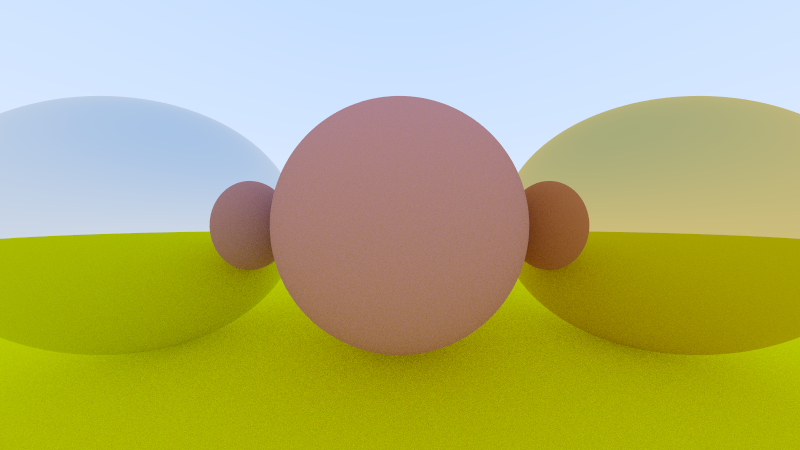
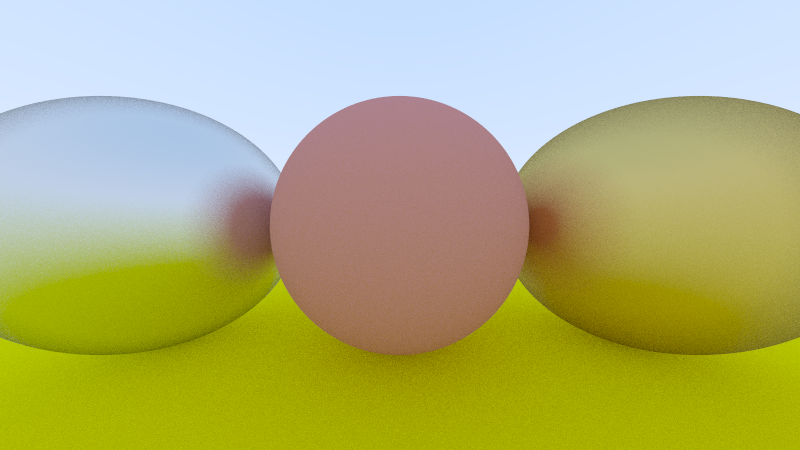
Add pertubation to the metal material

diff --git a/src/materials/reflective.rs b/src/materials/reflective.rs
@@ -1,19 +1,40 @@
 use super::Material;
 use crate::image::Pixel;
 use crate::surfaces::Intersection;
-use crate::types::Ray;
+use crate::types::{Ray, Vect3};
+use rand::{thread_rng, Rng};
+use rand_distr::Uniform;
+use std::f32::consts::PI;
+
+/// Pick a random point on a disk orthogonal to `normal`.
+///
+/// See <https://mathworld.wolfram.com/DiskPointPicking.html>.
+fn rand_point_on_disk(normal: &Vect3, radius: f32) -> Vect3 {
+    let mut rng = thread_rng();
+    let r: f32 = rng.sample(Uniform::new_inclusive(0.0, radius));
+    let phi: f32 = rng.sample(Uniform::new(0.0, 2.0 * PI));
+    let horiz = Vect3 {
+        x: 1.0,
+        ..Vect3::zero()
+    };
+    let x = (horiz - normal.project(horiz)).normalize();
+    let y = normal.cross(x);
+    (x * r.sqrt() * phi.cos()) + (y * r.sqrt() * phi.sin())
+}
 
 /// A reflective metal-like material.
 #[derive(Debug, Clone, Copy)]
 pub struct Metal {
     attenuation: Pixel,
+    pertubation: f32,
 }
 
 impl Metal {
     /// Construct a metal material with a given attenuation.
-    pub fn new(r: f32, g: f32, b: f32) -> Metal {
+    pub fn new(r: f32, g: f32, b: f32, fuzziness: f32) -> Metal {
         Metal {
             attenuation: Pixel { r, g, b },
+            pertubation: fuzziness,
         }
     }
 }
@@ -23,6 +44,11 @@ impl Material for Metal {
         let normal = intersection.normal();
         let incident = ray.direction();
         let reflection = incident - 2.0 * incident.dot(normal) * normal;
-        vec![(Ray::new(intersection.point(), reflection), self.attenuation)]
+        let direction = reflection + rand_point_on_disk(&reflection, self.pertubation);
+        if direction.dot(intersection.normal()) > 0.0 {
+            vec![(Ray::new(intersection.point(), direction), self.attenuation)]
+        } else {
+            vec![]
+        }
     }
 }

diff --git a/src/lib.rs b/src/lib.rs
@@ -29,7 +29,7 @@ pub fn get_scene() -> Scene {
                     },
                     radius: 0.5,
                 }),
-                material: Box::new(Metal::new(0.8, 0.8, 0.8)),
+                material: Box::new(Metal::new(0.8, 0.8, 0.8, 0.3)),
             },
             // Center diffuse sphere.
             Object {
@@ -52,7 +52,7 @@ pub fn get_scene() -> Scene {
                     },
                     radius: 0.5,
                 }),
-                material: Box::new(Metal::new(0.8, 0.6, 0.2)),
+                material: Box::new(Metal::new(0.8, 0.6, 0.2, 1.0)),
             },
             // "Ground" sphere.
             Object {
